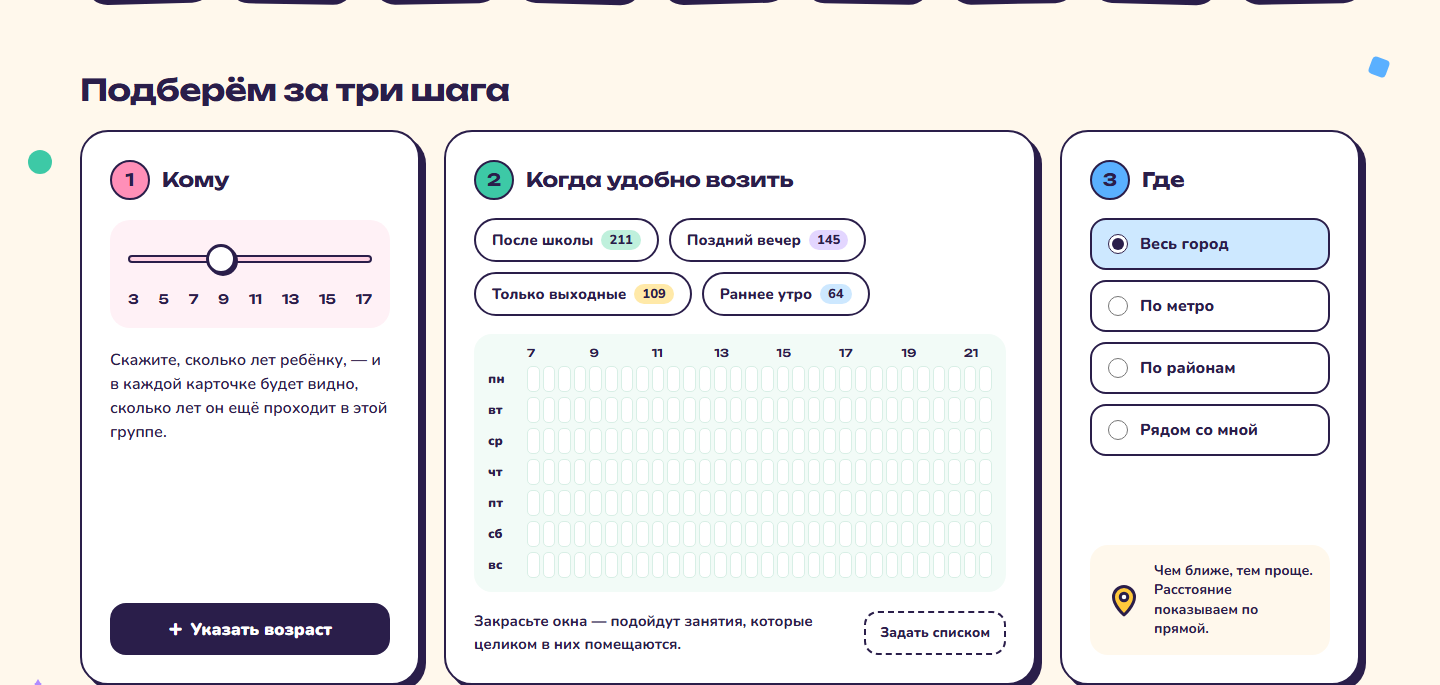
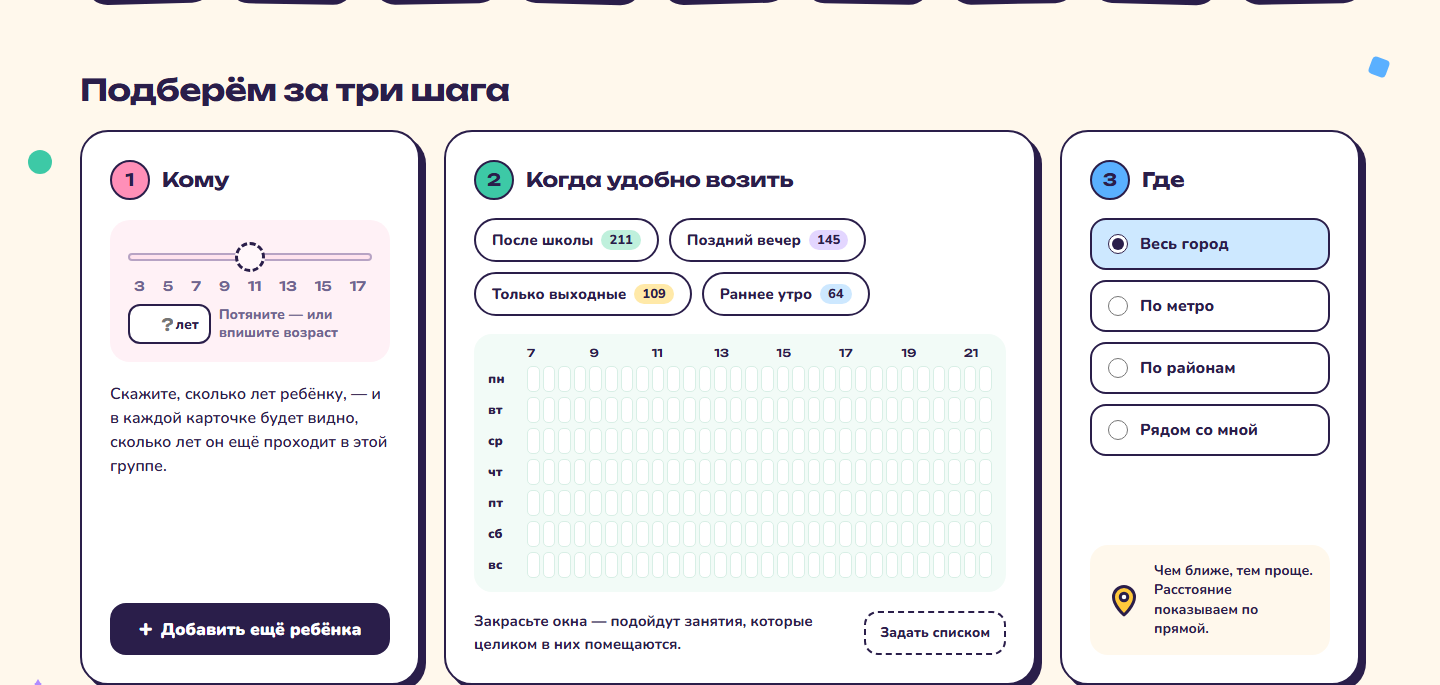
Ползунок возраста рабочий с самого начала; полоса «Фильтры» в горизонтали и при повороте

Changed region(s): [[0.0625, 0.3372, 0.2812, 0.7051], [0.0938, 0.8891, 0.25, 0.9504]]

diff --git a/design/compare.html b/design/compare.html
@@ -64,7 +64,7 @@
   <li><span class="tag tag--ok">перенесено</span> 43</li>
   <li><span class="tag tag--alt">перенесено иначе</span> 16</li>
   <li><span class="tag tag--no">не перенесено</span> 0</li>
-  <li>Сценарии интерфейса: <b>16 из 16</b> — 11 прежних (две разрешённые правки) и 5 новых</li>
+  <li>Сценарии интерфейса: <b>18 из 18</b> — 11 прежних (три разрешённые правки) и 7 новых</li>
   <li>Модульные тесты: <b>82 из 82</b></li>
 </ul>
 
@@ -285,7 +285,7 @@
   <li><b>Фокус с клавиатуры</b> проверен настоящими нажатиями Tab: ссылка «к результатам» → знак → три пункта меню → Кабинет → Войти → две кнопки героя → плитки. На каждом кольцо 3 px с отступом 4 px.</li>
   <li><b>Переливы на всех видах страниц</b> — главная, список направления, список у станции, страница группы, кабинет (три вкладки и гость) — на 1440, 1280, 1024, 768, 390 и 360 px: везде 0, ошибок в консоли нет.</li>
   <li><b>Переливы по ширине на главной</b>: 0 на 1440, 1430, 1429, 1366, 1312, 1311, 1280, 1263, 1262, 1200, 1199, 1024, 1023, 900, 768, 700, 699, 600, 390 и 360 px. На выдаче с двумя детьми и окном ни один элемент не вылезает за край своей карточки. Имена в плитках везде в одну строку.</li>
-  <li><b>Сценарии интерфейса</b> (<code>npm run test:ui</code>): 16 из 16. Правок в прежних сценариях две, обе разрешены: прокрутка перед открытием шторки и снятая метка todo у демо-сохранения.</li>
+  <li><b>Сценарии интерфейса</b> (<code>npm run test:ui</code>): 18 из 18. Правок в прежних сценариях две, обе разрешены: прокрутка перед открытием шторки и снятая метка todo у демо-сохранения.</li>
 </ul>
 
 <h2>Телефон</h2>
@@ -349,6 +349,23 @@
   <li><b>Старые якоря в меню статики и кабинета</b> (<code>/#tiles</code>, <code>/#builder</code>, <code>/#results</code>) заменены на секции главной — <code>/#napravleniya</code>, <code>/#podbor</code>, <code>/#gruppy</code>, как в её шапке.</li>
   <li><b>Сценарий полосы «Фильтры» поймал регрессию</b>: с новым подвалом последняя ссылка на телефоне уходила под полосу на 16 px — базовый отступ подвала перебивал место под полосу. Исправлено; место оставлено только на главной, где полоса есть.</li>
   <li>Содержимое статики стоит теперь на той же сетке, что шапка: раньше страница была 1248 px со своими полями и не совпадала с краем шапки.</li>
+</ul>
+
+<h2>Правки после проверки на живом телефоне</h2>
+<div class="pair">
+  <figure><figcaption>Шаг «Кому», возраст не задан: ползунок рабочий, приглушён, «потяните»</figcaption><img src="compare/site-steps.png" alt="Шаги подбора с пустым ползунком"></figure>
+  <figure><figcaption>Телефон в горизонтали, 844×390: первый экран, полосы нет</figcaption><img src="compare/site-land-844.png" alt="Первый экран в горизонтали 844 на 390"></figure>
+</div>
+<div class="pair" style="margin-top:12px">
+  <figure><figcaption>740×360</figcaption><img src="compare/site-land-740.png" alt="Первый экран в горизонтали 740 на 360"></figure>
+  <div></div>
+</div>
+<ul>
+  <li><b>Ползунок возраста работает сразу.</b> Нарисованной шкалы больше нет: на её месте настоящий ползунок — бледная дорожка, пунктирный бегунок, шкала 3…17 и «Потяните — или впишите возраст». Фильтра по возрасту нет, пока его не тронули. Первое касание, протяжка (ребёнок появляется, когда палец отпустили, — иначе ползунок перерисовался бы посреди движения) или стрелка с клавиатуры создают первого ребёнка с этим возрастом; фокус остаётся на ползунке. Поле с числом работает с самого начала.</li>
+  <li><b>Кнопка всегда «+ Добавить ещё ребёнка».</b> Если первый ползунок ещё не трогали, она задаёт первому ребёнку возраст, на котором стоит бегунок: прибавлять «ещё» не к чему. Прятать её до первого ребёнка нельзя, не правя сценарий «ссылка с фильтрами», — его правка не разрешалась.</li>
+  <li><b>Полоса «Фильтры» в горизонтали.</b> Причина: по ширине горизонтальный телефон — планшет, и рисунок героя вставал над текстом; при высоте 360–430 px кнопка «Подобрать кружок» оказывалась под нижним краем первого экрана. Наблюдатель спрашивал только «видна ли кнопка» и не отличал «ещё не дошли» от «прокрутили мимо» — полоса вставала наверх и пряталась у кнопки. Теперь полоса — только когда кнопку прокрутили за верхний край. Попутно нашлась вторая дыра: быстрый рывок проносил кнопку из-под нижнего края сразу за верхний, и обработчик не срабатывал вовсе; область наблюдения продлена вниз, граница у неё одна — верхний край.</li>
+  <li><b>Первый экран в горизонтали</b> занимал один рисунок — ни заголовка, ни кнопки. На низких экранах рисунок теперь маленький и справа от текста; кнопка героя на первом экране при 844×390, 932×430 и 740×360.</li>
+  <li><b>Новые сценарии:</b> горизонталь 844×390, 932×430, 740×360 и 568×320 (там кнопка и сейчас ниже первого экрана — ровно условие бага), рывок мимо кнопки и поворот вертикаль → горизонталь → вертикаль в одной вкладке, сверху и прокрученной страницей. Проверил, что сценарий ловит баг: на старой логике он падает. Второй — пустой ползунок с клавиатуры и поле с числом. Сценарий «добавить второго ребёнка» переписан под новое поведение, как вы разрешили; «ссылка с фильтрами» прошёл без правок.</li>
 </ul>
 
 <h2>Что дальше</h2>

diff --git a/js/app.js b/js/app.js
@@ -323,8 +323,13 @@ function findPlace(text) {
 }
 
 function wireControls() {
+  // Кнопка всегда «Добавить ещё ребёнка»: первый — это ползунок над ней.
+  // Если его ещё не трогали, кнопка задаёт первому возраст, на котором
+  // стоит бегунок, — прибавлять «ещё» не к чему.
   $('add-kid').addEventListener('click', () => {
-    const ages = [...q.children, { age: 8, name: '' }];
+    const ages = q.children.length
+      ? [...q.children, { age: 8, name: '' }]
+      : [{ age: EMPTY_REST, name: '' }];
     apply({ children: ages });
     const inputs = $('kids').querySelectorAll('.kid__age');
     if (inputs.length) inputs[inputs.length - 1].focus();
@@ -430,9 +435,20 @@ function watchHeroButton(button) {
     bar.dataset.away = '1';
     return;
   }
+  // «Ушла за край» — только вверх: страницу прокрутили мимо кнопки. Если
+  // кнопка ниже нижнего края (телефон в горизонтали, где первый экран ниже
+  // героя), до неё ещё не дошли — и полоса-замена ей не нужна. Раньше
+  // проверялось только «видна ли», и в горизонтали полоса вставала на
+  // первый экран, а при прокрутке к кнопке пряталась — наоборот.
+  //
+  // Поэтому область наблюдения продлена далеко вниз: граница у неё одна —
+  // верхний край экрана. Проверять «ниже или выше» по координатам в
+  // обработчике нельзя: быстрый рывок проносит кнопку из-под нижнего края
+  // сразу за верхний, «не видна → не видна» — не пересечение, и обработчик
+  // не срабатывает вовсе.
   new IntersectionObserver(([entry]) => {
     bar.dataset.away = entry.isIntersecting ? '0' : '1';
-  }).observe(button);
+  }, { rootMargin: '0px 0px 100000px 0px' }).observe(button);
 }
 
 function locate() {
@@ -465,6 +481,76 @@ function locate() {
 }
 
 /* ── синхронизация контролов с состоянием ────────────────────────────────── */
+
+// Пока возраст не задан, на подложке — настоящий ползунок, а не рисунок:
+// нарисованную шкалу пытались тянуть. Он приглушён и подписан «потяните»,
+// фильтра по возрасту нет, число групп не меняется. Первое касание,
+// протяжка или стрелка с клавиатуры создают первого ребёнка с этим
+// возрастом; поле с числом рядом работает так же.
+const EMPTY_REST = 10;
+
+function emptyKidRow() {
+  const row = document.createElement('div');
+  row.className = 'kid kid--empty';
+
+  const slider = document.createElement('input');
+  slider.type = 'range';
+  slider.className = 'kid__slider';
+  slider.min = '3';
+  slider.max = '17';
+  slider.value = String(EMPTY_REST);
+  slider.setAttribute('aria-label', 'Возраст ребёнка 1, ползунок');
+  slider.setAttribute('aria-valuetext', 'не задан');
+  slider.style.setProperty('--p', `${((EMPTY_REST - 3) / 14) * 100}%`);
+
+  const marks = document.createElement('span');
+  marks.className = 'kid__marks';
+  marks.setAttribute('aria-hidden', 'true');
+  marks.innerHTML = [3, 5, 7, 9, 11, 13, 15, 17].map((n) => `<span>${n}</span>`).join('');
+
+  const age = document.createElement('input');
+  age.type = 'number';
+  age.className = 'kid__age num';
+  age.min = '2';
+  age.max = '18';
+  age.placeholder = '?';
+  age.setAttribute('aria-label', 'Возраст ребёнка 1');
+
+  const ageBox = document.createElement('label');
+  ageBox.className = 'kid__agebox';
+  ageBox.append(age, document.createTextNode(' лет'));
+
+  const hint = document.createElement('span');
+  hint.className = 'kid__hint';
+  hint.textContent = 'Потяните — или впишите возраст';
+
+  const line = document.createElement('div');
+  line.className = 'kid__line';
+  line.append(ageBox, hint);
+  row.append(slider, marks, line);
+
+  // Ребёнок появляется один раз: после apply эта строка уже заменена
+  // настоящей, а поздний click от того же касания сюда не дойдёт.
+  const create = (value) => {
+    if (q.children.length) return;
+    const keepFocus = document.activeElement === slider;
+    apply({ children: [{ age: value, name: '' }] });
+    if (keepFocus) $('kids').querySelector('.kid__slider')?.focus();
+  };
+  slider.addEventListener('input', () => {
+    row.classList.add('kid--live');
+    age.value = slider.value;
+    slider.style.setProperty('--p', `${((slider.value - 3) / 14) * 100}%`);
+  });
+  slider.addEventListener('change', () => create(Number(slider.value)));
+  // Касание прямо по бегунку без сдвига не даёт ни input, ни change.
+  slider.addEventListener('click', () => create(Number(slider.value)));
+  age.addEventListener('change', () => {
+    if (age.value === '' || !Number.isFinite(Number(age.value))) return;
+    create(Math.min(18, Math.max(2, Math.round(Number(age.value)))));
+  });
+  return row;
+}
 
 function syncControls() {
   // дети
@@ -535,21 +621,11 @@ function syncControls() {
     row.append(slider, line);
     kids.append(row);
   });
-  $('add-kid').hidden = q.children.length >= 4;
-  $('add-kid').textContent = q.children.length ? 'Добавить ещё ребёнка' : 'Указать возраст';
-
-  // Пока детей нет, на розовой подложке — шкала возраста, как в эталоне:
-  // она показывает, что здесь будет ползунок. Это рисунок, а не контрол.
-  const noKids = $('no-kids');
   const empty = q.children.length === 0;
-  noKids.hidden = !empty;
+  if (empty) kids.append(emptyKidRow());
+  $('add-kid').hidden = q.children.length >= 4;
   $('who-empty').hidden = !empty;
   $('who-hint').hidden = empty;
-  if (empty && !noKids.dataset.filled) {
-    noKids.dataset.filled = '1';
-    noKids.innerHTML = '<span class="agescale__track"><span class="agescale__knob"></span></span>' +
-      `<span class="agescale__marks">${[3, 5, 7, 9, 11, 13, 15, 17].map((n) => `<span>${n}</span>`).join('')}</span>`;
-  }
 
   // режимы географии
   for (const input of $('modes').querySelectorAll('input')) {

diff --git a/css/site.css b/css/site.css
@@ -321,6 +321,28 @@ body { position: relative; overflow-x: clip; }
   .hero__lead { font-size: 19px; }
 }
 
+/* Телефон в горизонтали: по ширине это планшет (740–932 px), а высота всего
+   360–430. Правило «рисунок над текстом» съедало весь первый экран: ни
+   заголовка, ни кнопки. Здесь рисунок уменьшен и стоит справа от текста. */
+@media (max-width: 1023px) and (max-height: 500px) and (orientation: landscape) {
+  .hero { flex-direction: row; align-items: center; gap: 24px; padding-top: 16px; }
+  .hero__art { --k: .44; order: 0; align-self: center; margin: 0; }
+  .hero__col { gap: 14px; }
+  .hero__t { font-size: 38px; letter-spacing: -1px; }
+  .hero__lead { font-size: 16px; }
+}
+/* Самые низкие — 360–400 px: рисунок ещё меньше, заголовок и плашка плотнее,
+   иначе кнопка героя остаётся под нижним краем первого экрана. */
+@media (max-width: 1023px) and (max-height: 400px) and (orientation: landscape) {
+  .head { padding-top: 12px; }
+  .hero { padding-top: 10px; gap: 16px; }
+  .hero__art { --k: .36; }
+  .hero__col { gap: 10px; }
+  .note { font-size: 13px; padding: 5px 12px 5px 8px; }
+  .hero__t { font-size: 32px; }
+  .hero__lead { font-size: 15px; line-height: 1.4; }
+}
+
 /* ── телефон (в эталоне его нет) ─────────────────────────────────────────── */
 
 /* Лента плиток — на всём, что уже 1024: на планшете пять колонок по
@@ -478,20 +500,6 @@ body { position: relative; overflow-x: clip; }
 /* ── шаг 1: кому ─────────────────────────────────────────────────────────── */
 
 .kidbox { padding: 22px 18px 18px; background: #fff1f6; border-radius: 20px; display: flex; flex-direction: column; gap: 14px; }
-.kids:empty { display: none; }
-
-.agescale { display: flex; flex-direction: column; gap: 14px; }
-.agescale__track {
-  position: relative; display: block; height: 8px; margin: 13px 0;
-  border-radius: 999px; background: #ffd3e4; border: 2px solid var(--ink);
-}
-.agescale__knob {
-  position: absolute; left: 38%; top: 50%; transform: translate(-50%, -50%);
-  width: 30px; height: 30px; box-sizing: border-box; border-radius: 999px;
-  background: var(--white); border: 3px solid var(--ink); box-shadow: 2px 2px 0 var(--ink);
-}
-.agescale__marks { display: flex; justify-content: space-between; font-family: var(--f-disp); font-size: 13px; font-weight: 600; }
-
 .kids { display: flex; flex-direction: column; gap: 16px; }
 .kid { display: flex; flex-direction: column; gap: 10px; }
 .kid + .kid { padding-top: 16px; border-top: 2px dashed #ffb8d2; }
@@ -518,6 +526,20 @@ body { position: relative; overflow-x: clip; }
 }
 
 .kid__line { display: flex; align-items: center; gap: 8px; min-width: 0; }
+
+/* Возраст не задан: тот же ползунок, но приглушённый — бледная дорожка без
+   заливки и пунктирный бегунок. Как только его тронули, он оживает. */
+.kid__marks { display: flex; justify-content: space-between; margin-top: -4px; padding: 0 6px; font: 600 13px var(--f-disp); }
+.kid--empty .kid__slider { --p: 0%; }
+.kid--empty .kid__slider::-webkit-slider-runnable-track { background: #ffe3ee; border-color: #b7a3c4; }
+.kid--empty .kid__slider::-moz-range-track { background: #ffe3ee; border-color: #b7a3c4; }
+.kid--empty .kid__slider::-webkit-slider-thumb { background: #fff7fa; border-style: dashed; box-shadow: none; }
+.kid--empty .kid__slider::-moz-range-thumb { background: #fff7fa; border-style: dashed; box-shadow: none; }
+.kid--empty.kid--live .kid__slider::-webkit-slider-runnable-track { background: linear-gradient(90deg, var(--pink) var(--p), #ffd3e4 var(--p)); border-color: var(--ink); }
+.kid--empty.kid--live .kid__slider::-webkit-slider-thumb { background: var(--white); border-style: solid; box-shadow: 2px 2px 0 var(--ink); }
+.kid--empty .kid__marks { color: #6f6590; }
+.kid__hint { font: 800 14px/1.3 var(--f-body); color: #6f6590; }
+.kid--empty .kid__slider:focus-visible { outline: 3px solid var(--ink); outline-offset: 4px; border-radius: 12px; }
 .kid__agebox {
   flex: none; height: 40px; box-sizing: border-box; padding: 0 10px 0 6px;
   display: flex; align-items: center; gap: 2px;

diff --git a/index.html b/index.html
@@ -103,11 +103,10 @@
         <div class="step__head"><span class="step__n" aria-hidden="true">1</span><h3 class="step__t" id="who-t">Кому</h3></div>
         <div class="kidbox">
           <div class="kids" id="kids"></div>
-          <div class="agescale" id="no-kids" aria-hidden="true"></div>
         </div>
         <p class="step__text" id="who-empty">Скажите, сколько лет ребёнку, — и в каждой карточке будет видно, сколько лет он ещё проходит в этой группе.</p>
         <p class="step__text" id="who-hint">Подходит, если возраст попадает в диапазон группы. Группы, где ребёнок младше или старше на год, показываем отдельно.</p>
-        <button type="button" class="step__btn" id="add-kid">Указать возраст</button>
+        <button type="button" class="step__btn" id="add-kid">Добавить ещё ребёнка</button>
       </section>
 
       <section class="step step--when" aria-labelledby="when-t">
